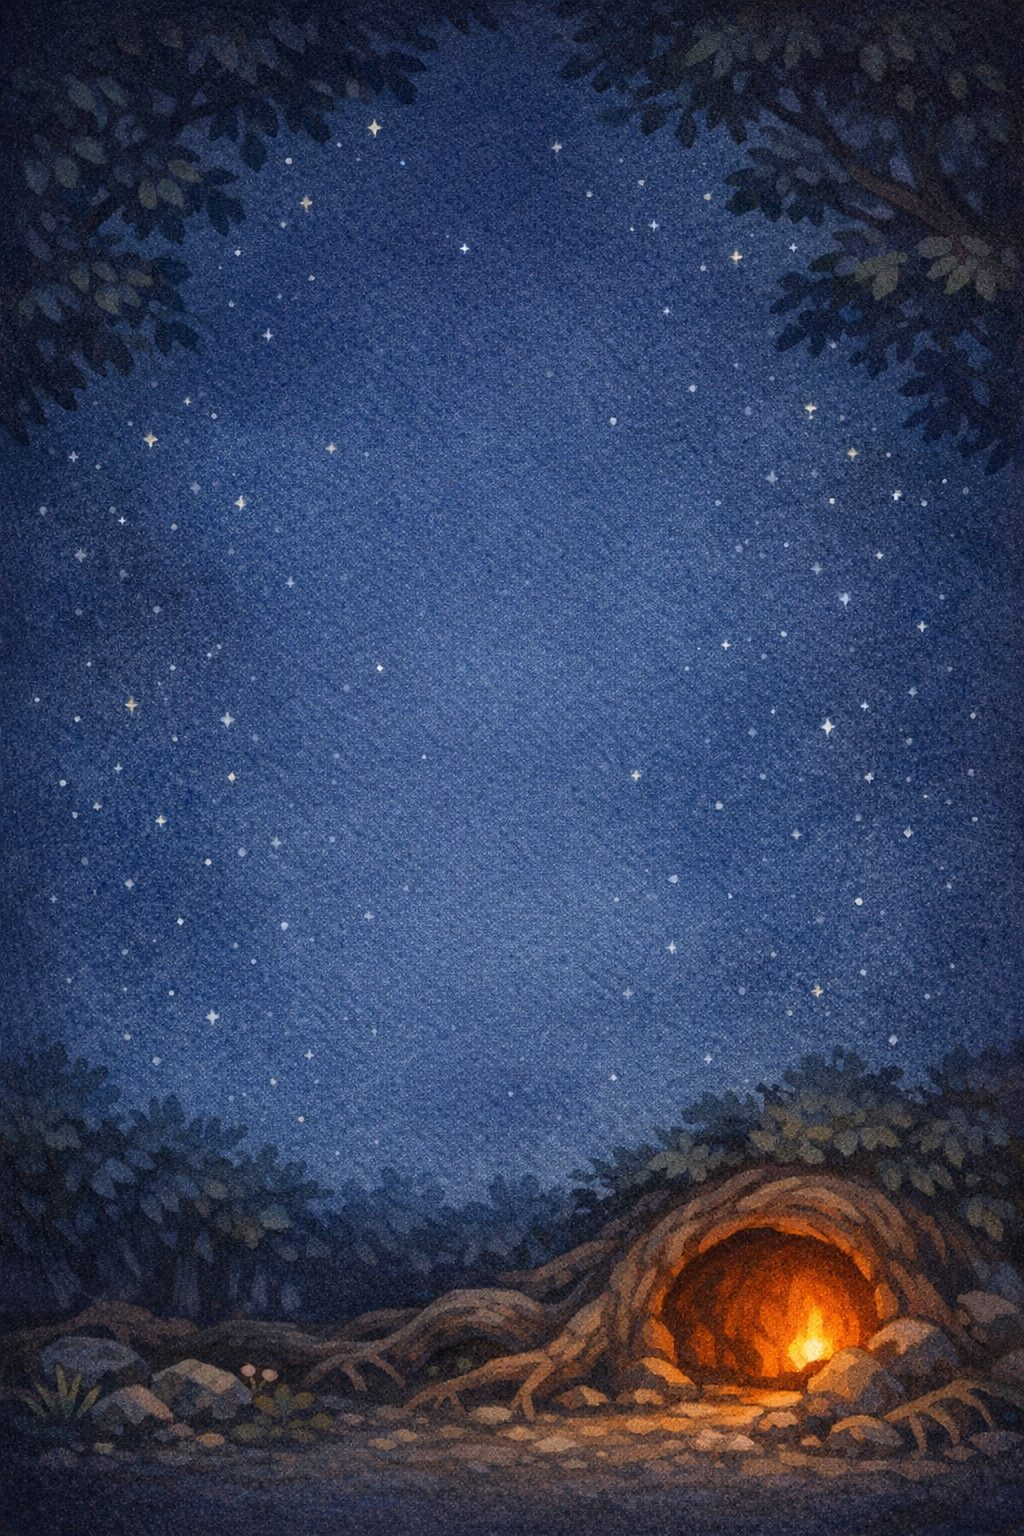
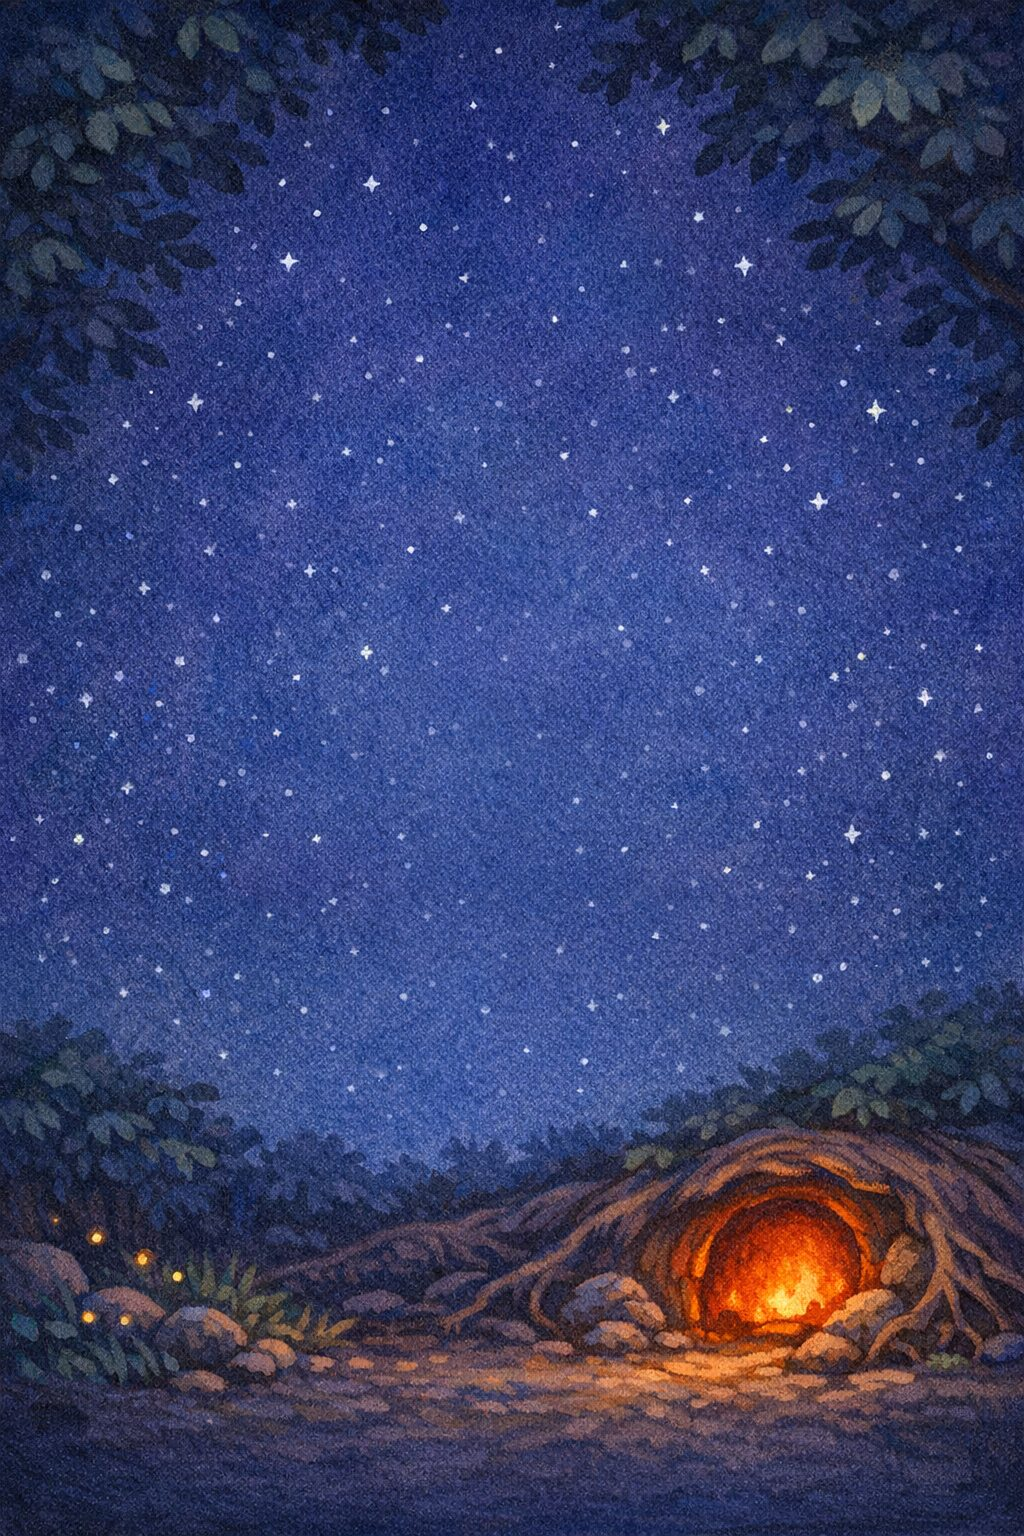
Eight rows, more air at the top, lower scenery in Crystal Cave and Dragon Hollow
From the parent's review of batch A on the phone: the ninth row cluttered
the board over the painted backdrops, so Play is seven by eight again;
a third of the spare height now goes above the board; the Cave and Hollow
backdrops are repainted with a lower scenery strip so nothing rises under
the gems.

Claude-Session: https://claude.ai/code/session_0137pAHw6aXVohaFp5BAxdva

diff --git a/src/game/view.ts b/src/game/view.ts
@@ -498,7 +498,8 @@ export class GameView {
     const boardX = (width - boardW) / 2;
     const spare = height - inset - hud - boardH;
     // The board sits at the top under the lantern row (art summit, DESIGN.md 2e), so the painted landscape shows beneath it.
-    const boardY = hud + Math.max(6, spare * 0.15 - 8);
+    // A third of the spare height goes above the board (parent, 7 October: the top still felt packed), the rest shows the painted landscape below.
+    const boardY = hud + Math.max(6, spare * 0.3 - 8);
     const hudY = boardY - 90;
     this.layout = { width, height, cell, boardX, boardY, hudY };
     this.canvas.width = Math.round(width * this.dpr);

diff --git a/tests/journey.test.ts b/tests/journey.test.ts
@@ -178,7 +178,7 @@ describe('boards', () => {
 
   it('plays Calm on the decided 6 by 9 board and Play on a 7 by 8', () => {
     expect(boardFor('calm')).toEqual({ rows: 9, cols: 6, bias: 0.3, goal: 12, hintMs: 4000 });
-    expect(boardFor('play')).toMatchObject({ rows: 9, cols: 7 });
+    expect(boardFor('play')).toMatchObject({ rows: 8, cols: 7 });
     expect(boardFor('play').bias).toBeLessThan(boardFor('calm').bias);
     expect(boardFor('play').hintMs).toBeGreaterThan(boardFor('calm').hintMs);
   });

diff --git a/src/core/journey.ts b/src/core/journey.ts
@@ -156,5 +156,5 @@ export interface BoardSpec {
  */
 export function boardFor(mode: Mode): BoardSpec {
   if (mode === 'calm') return { rows: 9, cols: 6, bias: 0.3, goal: 12, hintMs: 4000 };
-  return { rows: 9, cols: 7, bias: 0.12, goal: 16, hintMs: 10000 };
+  return { rows: 8, cols: 7, bias: 0.12, goal: 16, hintMs: 10000 };
 }

diff --git a/DESIGN.md b/DESIGN.md
@@ -92,7 +92,7 @@ Settled with the parent as five picture choices, one at a time (samples and prom
 
 - **One hand for everything: hand-painted storybook** (gouache and watercolour, soft brushwork, rich jewel colours), chosen over polished glossy and stained glass. The painted gems, the Meadow mockup and the firefly had each been in a different hand; from here every piece is made against the same style paragraph.
 - **The companions are now a fairy, a kid dragon and a little hooded hero**, extra-cute proportions. Harper loves fairies above all, so the fairy is the default. The firefly and the glow fish are retired (the code's ids stay for saved games).
-- **The board moves to the top of the screen and gains a row** (seven by nine in Play), the gems a tenth bigger, the companion beside the lantern half again as big, and a soft still glow under every gem; the landscape shows beneath the board. Painted cells (a gilded jewel box, a flower frame, a ring of stars) were tried and the glass cells kept.
+- **The board moves to the top of the screen** (seven by eight in Play: a ninth row was tried on the deployed build and dropped on 7 October because it cluttered the board over the painted backdrops), the gems a tenth bigger, the companion beside the lantern half again as big, and a soft still glow under every gem; the landscape shows beneath the board. Painted cells (a gilded jewel box, a flower frame, a ring of stars) were tried and the glass cells kept.
 - **The seven areas** were approved from one painted strip, so they read as siblings.
 - **The map becomes a scrolling storybook**: tall painted sections per area with the path painted into the landscape, chaining top to bottom; the code places lanterns and companions on points along the painted path and keeps drawing all the light. The perspective stage and the code-drawn road ribbon go. The parent's words: the old road "just drifts oddly into the mountains".
 - **Stage 4's pieces** (frost, vines, cloud puffs, moonstone, star-seeds, bubbles, hidden pictures) were approved painted, so Play levels are built with their real art from the first day.

diff --git a/STATUS.md b/STATUS.md
@@ -81,7 +81,7 @@ Deployed to main on the parent's go-ahead: run 22, green 20:50 UTC on 6 October 
 - **Gems:** the storybook set from the summit, drawn a tenth bigger, with the soft still glow baked into the sprite under the picture.
 - **Powers:** painted Orb, Aurora, bud, sprite and moon pearl stamped over their code-drawn versions (`src/render/powerArt.ts`); comet streak, starburst rays and all auras stay code-drawn.
 - **Companions:** fairy, dragon and hero, each with an asleep picture, on the board (62 px) and the map; the asleep picture replaces the code squash when it exists (`src/render/mapArt.ts`, `creatures.ts`). The code still calls them firefly, fish and hero so saves keep working; `COMPANION_FILES` maps the ids to the picture names.
-- **Board:** Play is seven by nine, at the top of the screen, with the area's painted backdrop behind it (`src/render/boardArt.ts`, loaded per area when first needed).
+- **Board:** Play is seven by eight (nine was tried and dropped on the parent's review, 7 October), at the top of the screen, with the area's painted backdrop behind it (`src/render/boardArt.ts`, loaded per area when first needed).
 - **Backdrops:** all seven painted. The first Crystal Cave, Mermaid Lagoon and Star Garden came back with characters in the bottom strip although the prompt asked for scenery only; the parent found them distracting, so those three were repainted scenery-only with a firmer prompt ("no creatures, no characters, no animals, no people, no faces of any kind; the strip never taller than a sixth"), and Dragon Hollow was painted once the credit was topped up.
 - **Air at the top:** the parent found the top packed, so the lantern row is now 154 px tall: the companion sits lower under the Dynamic Island, the goal stars have room below it, and the board starts under them (`resize` and `drawHud` in `src/game/view.ts`).
 - The old map (perspective stage, code road) is unchanged until batch B.

diff --git a/STYLE.md b/STYLE.md
@@ -32,7 +32,7 @@ The seven powers get painted bodies in the same hand (comet head, prism orb, blo
 
 ## The board
 
-- Seven by nine in Play, six by nine in Calm, moved to the top of the screen just under the lantern row, so the landscape shows below the board.
+- Seven by eight in Play (the ninth row was tried on 6 October and dropped the next day: with the painted backdrops it cluttered the board), six by nine in Calm, moved to the top of the screen just under the lantern row, so the landscape shows below the board.
 - Cells stay the barely-there glass of Deep Night Garden (painted cells were tried and declined).
 - The companion beside the top lantern is drawn at about 62 px, half again the old size.
 - Behind the board: a portrait painting per area (1024 by 1536), sky at the top, quiet and dark through the middle, scenery only in the bottom fifth, smoother sky grain than the first try so it reads at phone size.
